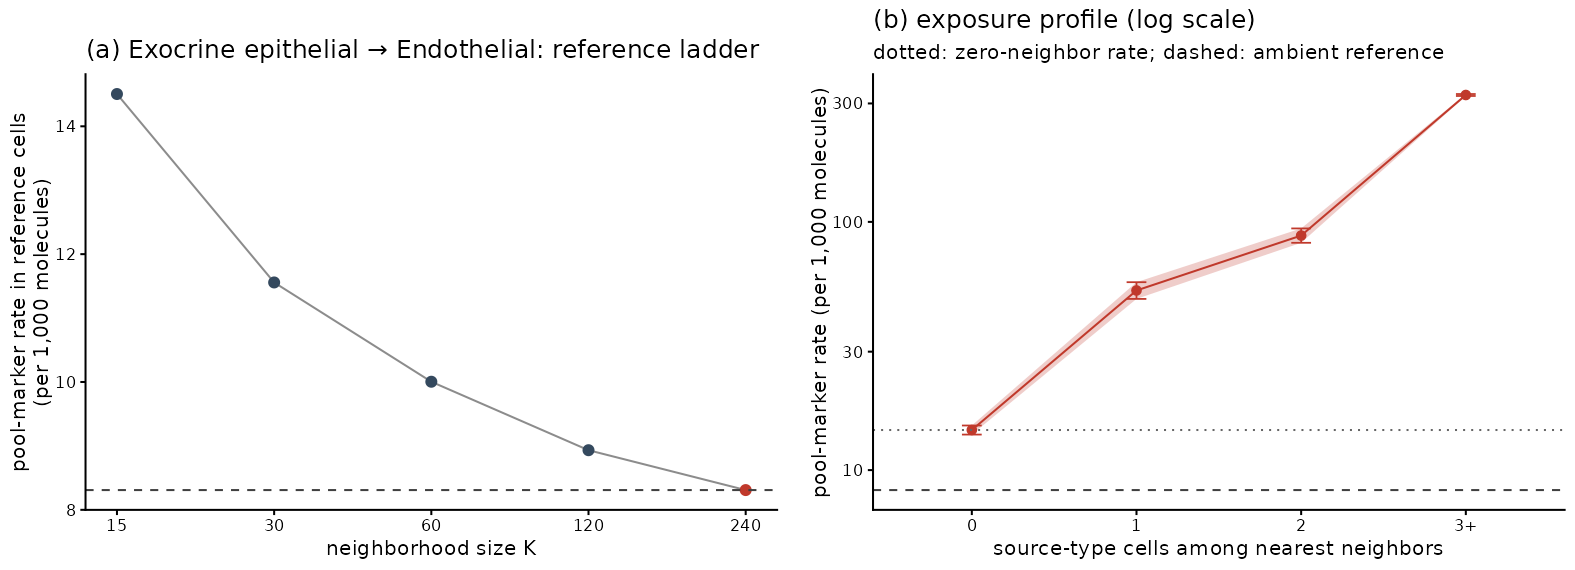
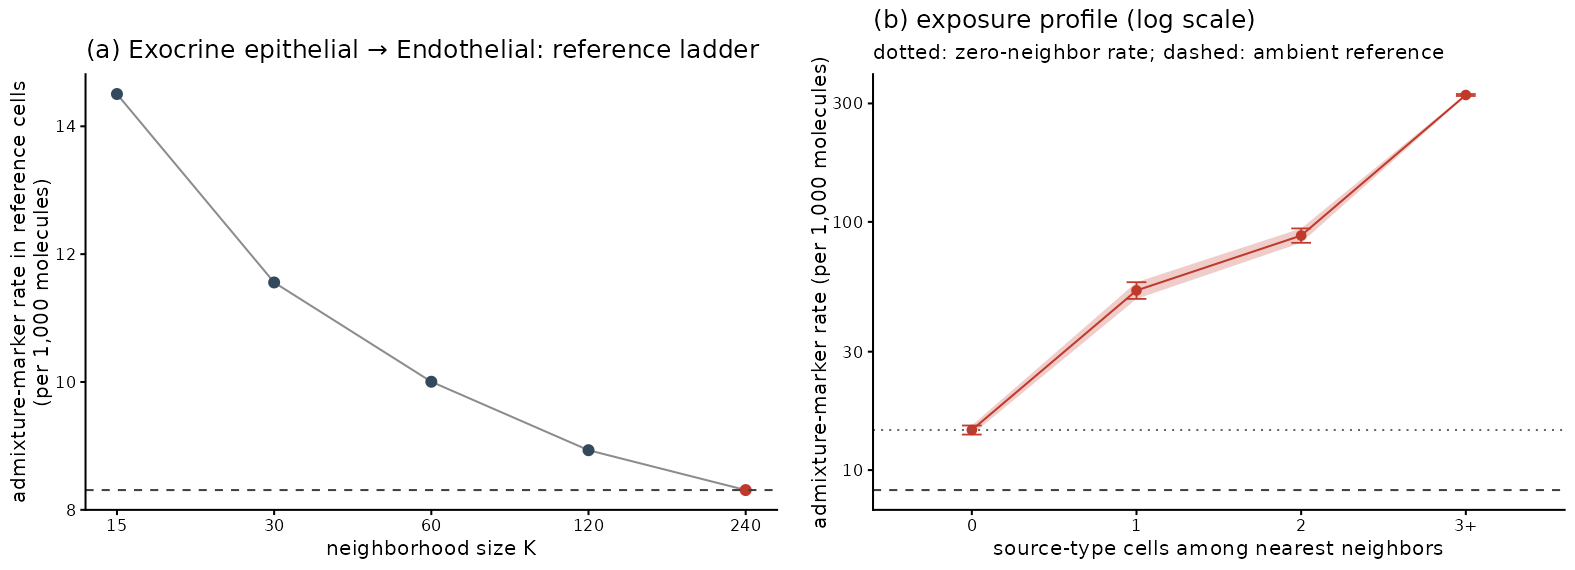
Fit the reference ladder monotonically; relabel admixture-marker rates

diff --git a/python/src/celladmix/audit.py b/python/src/celladmix/audit.py
@@ -81,6 +81,31 @@ def _power(rates_before, rates_after):
     return np.nan if eb.sum() <= 0 else 1 - float(ea.sum()) / float(eb.sum())
 
 
+def _pava_dec(y, w):
+    """Weighted monotone-decreasing fit (pool-adjacent violators):
+    stabilizes each rung's estimate with the whole ladder, without
+    extrapolating beyond it."""
+    val = list(map(float, y))
+    wt = list(map(float, w))
+    idx = [[i] for i in range(len(val))]
+    i = 0
+    while i < len(val) - 1:
+        if val[i] < val[i + 1] - 1e-15:
+            mw = wt[i] + wt[i + 1]
+            mv = (val[i] * wt[i] + val[i + 1] * wt[i + 1]) / mw
+            val[i], wt[i] = mv, mw
+            idx[i].extend(idx[i + 1])
+            del val[i + 1], wt[i + 1], idx[i + 1]
+            i = max(0, i - 1)
+        else:
+            i += 1
+    out = np.empty(sum(len(g) for g in idx))
+    for j, group in enumerate(idx):
+        for g in group:
+            out[g] = val[j]
+    return out
+
+
 def _reference_rate(marker_counts, totals, zero_by_K, min_tail_totals=2e4):
     """Ambient reference: the pooled panel rate among target cells with zero
     source-type cells among their K nearest neighbor cells, for the largest
@@ -96,16 +121,18 @@ def _reference_rate(marker_counts, totals, zero_by_K, min_tail_totals=2e4):
     cells, ascending in K; the first entry is the base exposure definition.
     """
     labels = list(zero_by_K)
-    base = zero_by_K[labels[0]]
-    pooled = float(marker_counts[base].sum()) / max(float(totals[base].sum()), 1.0)
-    rate, kind = pooled, labels[0]
-    for label in reversed(labels):
-        z = zero_by_K[label]
-        if float(totals[z].sum()) >= min_tail_totals:
-            rate = float(marker_counts[z].sum()) / max(float(totals[z].sum()), 1.0)
-            kind = label
-            break
-    return min(rate, pooled), kind, pooled
+    m_k = np.array([float(marker_counts[z].sum()) for z in zero_by_K.values()])
+    M_k = np.array([float(totals[z].sum()) for z in zero_by_K.values()])
+    rate_k = m_k / np.maximum(M_k, 1.0)
+    # Monotone fit across all rungs; the reference is the fitted value at
+    # the deepest well-populated rung - every rung contributes, nothing
+    # beyond the measured ladder is assumed.
+    fitted = _pava_dec(rate_k, np.maximum(M_k, 1.0))
+    pooled = float(rate_k[0])
+    ok = np.flatnonzero(M_k >= min_tail_totals)
+    pick = int(ok.max()) if len(ok) else 0
+    return (min(float(fitted[pick]), pooled), labels[pick], pooled,
+            fitted)
 
 
 def _reference_trend(d):
@@ -114,8 +141,8 @@ def _reference_trend(d):
     idx = lad.index[lad["K"] == K]
     if not len(idx) or idx[0] == 0:
         return np.nan
-    prev = lad["rate"].iloc[idx[0] - 1]
-    return float((prev - lad["rate"].iloc[idx[0]]) / max(prev, 1e-12))
+    prev = lad["rate_fitted"].iloc[idx[0] - 1]
+    return float((prev - lad["rate_fitted"].iloc[idx[0]]) / max(prev, 1e-12))
 
 
 def _excess_vs_ref(rates, ref_rate):
@@ -250,19 +277,20 @@ class CellAdmixAudit:
                 # gradient-based.
                 zero_by_K = {label: df.loc[T_cells, source].to_numpy() == 0
                              for label, df in expo_ladder.items()}
-                ref_rate, ref_kind, ref_unexposed = _reference_rate(
+                ref_rate, ref_kind, ref_unexposed, ref_fitted = _reference_rate(
                     mk_by_cell, tot, zero_by_K)
                 ref_mask = zero_by_K[ref_kind]
                 ref_ladder = pd.DataFrame(dict(
                     K=[int(k[1:]) for k in zero_by_K],
                     rate=[float(mk_by_cell[z].sum()) / max(float(tot[z].sum()), 1.0)
                           for z in zero_by_K.values()],
+                    rate_fitted=ref_fitted,
                     totals=[float(tot[z].sum()) for z in zero_by_K.values()]))
                 excess = _excess_vs_ref(rates, ref_rate)
                 if len(strict) >= 2:
                     mks = np.asarray(self._matrix[strict][:, cols].sum(axis=0)).ravel()
                     rates_strict = _bin_rates(mks, tot, bins)
-                    ref_s, _, _ = _reference_rate(mks, tot, zero_by_K)
+                    ref_s, _, _, _ = _reference_rate(mks, tot, zero_by_K)
                     excess_strict = _excess_vs_ref(rates_strict, ref_s)
                 else:
                     rates_strict, excess_strict = None, np.nan
@@ -451,8 +479,8 @@ class CellAdmixAudit:
                 ax.axhline(r_ref * 1e3, ls="--", c="0.25", lw=0.9)
         ax.set_xticks(range(len(BIN_LABELS)), BIN_LABELS)
         ax.set_xlabel("source-type cells among nearest neighbors")
-        ax.set_ylabel("excess pool-marker rate over pair ambient reference\n(per 1,000 molecules)"
-            if pooled else "pool-marker rate (per 1,000 molecules)\n"
+        ax.set_ylabel("excess admixture-marker rate over pair ambient reference\n(per 1,000 molecules)"
+            if pooled else "admixture-marker rate (per 1,000 molecules)\n"
             "(dotted: zero-neighbor rate; dashed: ambient reference)")
         title = ("Admixture exposure profile (pooled over detected pairs)"
             if source is None else f"{source} → {target}")
@@ -468,7 +496,7 @@ class CellAdmixAudit:
         lad = d["ref_ladder"]
         if ax is None:
             _, ax = plt.subplots(figsize=(4.2, 3.2))
-        ax.plot(lad["K"], lad["rate"] * 1e3, "-", color="0.6", zorder=1)
+        ax.plot(lad["K"], lad["rate_fitted"] * 1e3, "-", color="0.6", zorder=1)
         chosen = [f"k{int(k)}" == d["reference_kind"] for k in lad["K"]]
         usable = lad["totals"] >= 2e4
         for i in range(len(lad)):
@@ -481,7 +509,7 @@ class CellAdmixAudit:
         ax.set_xscale("log", base=2)
         ax.set_xticks(lad["K"].tolist(), [str(int(k)) for k in lad["K"]])
         ax.set_xlabel("neighborhood size K (zero source cells among K nearest)")
-        ax.set_ylabel("pool-marker rate in reference cells\n(per 1,000 molecules)")
+        ax.set_ylabel("admixture-marker rate in reference cells\n(per 1,000 molecules)")
         ax.set_title(f"{source} → {target}: ambient reference", fontsize=10)
         return ax
 

diff --git a/python/tests/test_audit_reference.py b/python/tests/test_audit_reference.py
@@ -18,7 +18,7 @@ class ReferenceRateTests(unittest.TestCase):
                      "k240": idx > 3000}
         rate = np.where(idx <= 1000, 0.03, np.where(idx <= 3000, 0.012, 0.005))
         markers = rng.poisson(rate * totals).astype(float)
-        ref, kind, pooled = _reference_rate(markers, totals, zero_by_K)
+        ref, kind, pooled, _ = _reference_rate(markers, totals, zero_by_K)
         self.assertEqual(kind, "k240")
         self.assertLess(ref, 0.008)
         self.assertGreater(pooled, ref)
@@ -33,7 +33,7 @@ class ReferenceRateTests(unittest.TestCase):
         zero_by_K = {"k15": np.full(n, True), "k60": idx > 1000,
                      "k240": idx > 3990}
         markers = rng.poisson(0.01 * totals).astype(float)
-        _, kind, _ = _reference_rate(markers, totals, zero_by_K)
+        _, kind, _, _ = _reference_rate(markers, totals, zero_by_K)
         self.assertEqual(kind, "k60")
 
     def test_flat_profile_keeps_base_rate(self):
@@ -46,7 +46,7 @@ class ReferenceRateTests(unittest.TestCase):
         zero_by_K = {"k15": np.full(n, True), "k60": idx > 1000,
                      "k240": idx > 3000}
         markers = rng.poisson(0.01 * totals).astype(float)
-        ref, _, pooled = _reference_rate(markers, totals, zero_by_K)
+        ref, _, pooled, _ = _reference_rate(markers, totals, zero_by_K)
         self.assertAlmostEqual(ref, pooled, delta=0.15 * pooled)
 
 

diff --git a/analysis/cleanup_benchmark/figures.py b/analysis/cleanup_benchmark/figures.py
@@ -43,7 +43,7 @@ for i, pair in enumerate(show_pairs):
     ax.set_xlabel('source-type neighbors')
     ax.set_title(short(pair), fontsize=8.5)
     if i == 0:
-        ax.set_ylabel('pool-marker rate $\\hat{\\rho}_B$\n(per 1000 molecules)')
+        ax.set_ylabel('admixture-marker rate $\\hat{\\rho}_B$\n(per 1000 molecules)')
         ax.legend(frameon=False, fontsize=8)
 
 # panel b: extrapolated per-pair admixture rates r as a source x target map

diff --git a/docs/benchmarks.md b/docs/benchmarks.md
@@ -89,13 +89,15 @@ among a progressively larger neighborhood — 30, 60, 120, 240 nearest
 cells, a ~100 um lateral radius — using the largest one with enough
 reference molecules (Figure 5). This bounds the reference cells' hidden
 exposure by direct observation without comparing against distant tissue,
-where same-type cells can be biologically different. The reference is the
-deepest well-populated measurement, not a curve fit: a ladder that is
-still declining at its deepest neighborhood (as in Figure 5a) leaves the
-pair's estimate conservative, and the per-pair decline over the final
-step is reported so such pairs are visible (fitted extrapolation was
-tested and rejected - it changes the median reference by under 3% while
-failing unpredictably on sparse pairs). Content of any
+where same-type cells can be biologically different. The reference is a
+monotone fit across the whole ladder, read at its deepest well-populated
+rung - every rung contributes to the estimate's stability, and nothing
+beyond the measured ladder is assumed (free-form extrapolation past the
+deepest rung was tested and rejected: it changes the median reference by
+under 3% while failing unpredictably on sparse pairs). A ladder still
+declining at its deepest rung (as in Figure 5a) leaves the pair's
+estimate conservative, and the per-pair decline over the final step is
+reported so such pairs are visible. Content of any
 target cell above this ambient level counts as leakage. On simulations
 with planted contact, hidden out-of-section, and ambient contamination,
 the base reference recovers 36% of the truth and the ladder 65%, always
@@ -107,10 +109,10 @@ under either reference.
 ![Figure 5](figures/benchmark_fig5.png)
 
 **Figure 5. The ambient reference.** **(a)** The reference ladder for the
-pancreas pair with the largest reference correction: the marker rate
-among target cells with zero source cells among their K nearest, as K
-grows; filled points have enough molecules to serve as the reference, the
-red point is the chosen neighborhood, and the dashed line is the
+pancreas pair with the largest reference correction: points show the
+marker rate among target cells with zero source cells among their K
+nearest as K grows, the line is the monotone fit across the ladder, the
+red point marks the chosen neighborhood, and the dashed line is the
 resulting ambient reference. **(b)** The same pair's exposure profile:
 the dotted line is the zero-neighbor rate (the old reference), the dashed
 line the ambient reference; the gap between them is contamination carried
@@ -142,22 +144,23 @@ to a single target type, so no molecule is counted by two pairs.
 
 ![Figure 1](figures/benchmark_fig1.png)
 
-**Figure 1. The neighbor benchmark.** **(a)** Strict-tier pool-marker
-rates $\hat\rho_B$ in target cells, stratified by the number of source-type
+**Figure 1. The neighbor benchmark.** **(a)** Strict-tier
+admixture-marker rates $\hat\rho_B$ in target cells, stratified by the number of source-type
 neighbors, before (red, dashed) and after (blue) a standard cleanup (bare
 ls-NMF fit, membrane scoring, pancreas dataset); the dotted line marks the
-zero-exposure reference rate $\hat\rho_0$ — nonzero in general, since it
-includes residual native expression and ambient contamination; only the
-excess above it counts as leakage. The rise with exposure reflects
+zero-exposure rate $\hat\rho_0$, the benchmark's scoring floor — nonzero
+in general, since it includes residual native expression and ambient
+contamination; only the excess above it counts as leakage. The rise with exposure reflects
 contamination; cleanup quality is the degree to which the blue curve
 flattens to the reference. Compare the near-complete flattening of
 endocrine → endothelial with fibroblast → immune, where the curves
 coincide exactly: the correction issued no removal rule for that pair, so
 its molecules were untouched. **(b)** Estimated per-pair admixture rates
-$\hat r_{S \to T}$ on pancreas (percent of the target type's molecules
-leaked in from the source; blank cells: pair not detected). Over a
-quarter of ductal/tumor-cell molecules are estimated to originate in
-exocrine cells. **(c)** Estimated cleanup sensitivity for every detected
+$\hat r_{S \to T}$ on pancreas, measured against each pair's ambient
+reference (Figure 5): percent of the target type's molecules leaked in
+from the source; blank cells: pair not detected. About a fifth of the
+ductal/tumor-cell molecules are estimated to originate in exocrine
+cells. **(c)** Estimated cleanup sensitivity for every detected
 pair (bars), with each pair's estimated admixed-molecule count
 $\hat A_{S \to T}$ overlaid (orange, log scale). Take-home: cleanup effectiveness is
 measurable without molecule-level ground truth, and a standard single-fit
@@ -184,7 +187,7 @@ specificity metrics below. The coverage factor $s$ cancels in the ratio,
 so cleanup scores do not depend on the extrapolation step. Applied across
 all detected pairs of a standard single-fit cleanup (Figure 1c),
 sensitivity varies widely between pairs, and the largest pair
-(exocrine → ductal, an estimated $\hat A \approx 500{,}000$ admixed
+(exocrine → ductal, an estimated $\hat A \approx 380{,}000$ admixed
 molecules) is missed entirely — a failure that aggregate statistics would
 hide.
 
@@ -279,8 +282,8 @@ neither does adding restarts. Downstream, the *lists* of removal decisions
 (source → target rules) that survive scoring are comparatively
 reproducible (Jaccard ≈ 0.83 between runs; Figure 2b). The remaining
 disagreements, however, concentrate on a few high-leakage pairs — the
-exocrine → ductal decision flips between runs and carries half the
-dataset's leakage — and the per-molecule labels that decisions act on vary
+exocrine → ductal decision flips between runs and carries a quarter of
+the dataset's estimated leakage — and the per-molecule labels that decisions act on vary
 much more. The net effect: the final removed-molecule sets of two runs
 share only about half their members (median Jaccard 0.56 invsqrt,
 0.45 ls-NMF; Figure 2c) despite similar totals. Notably this holds for
